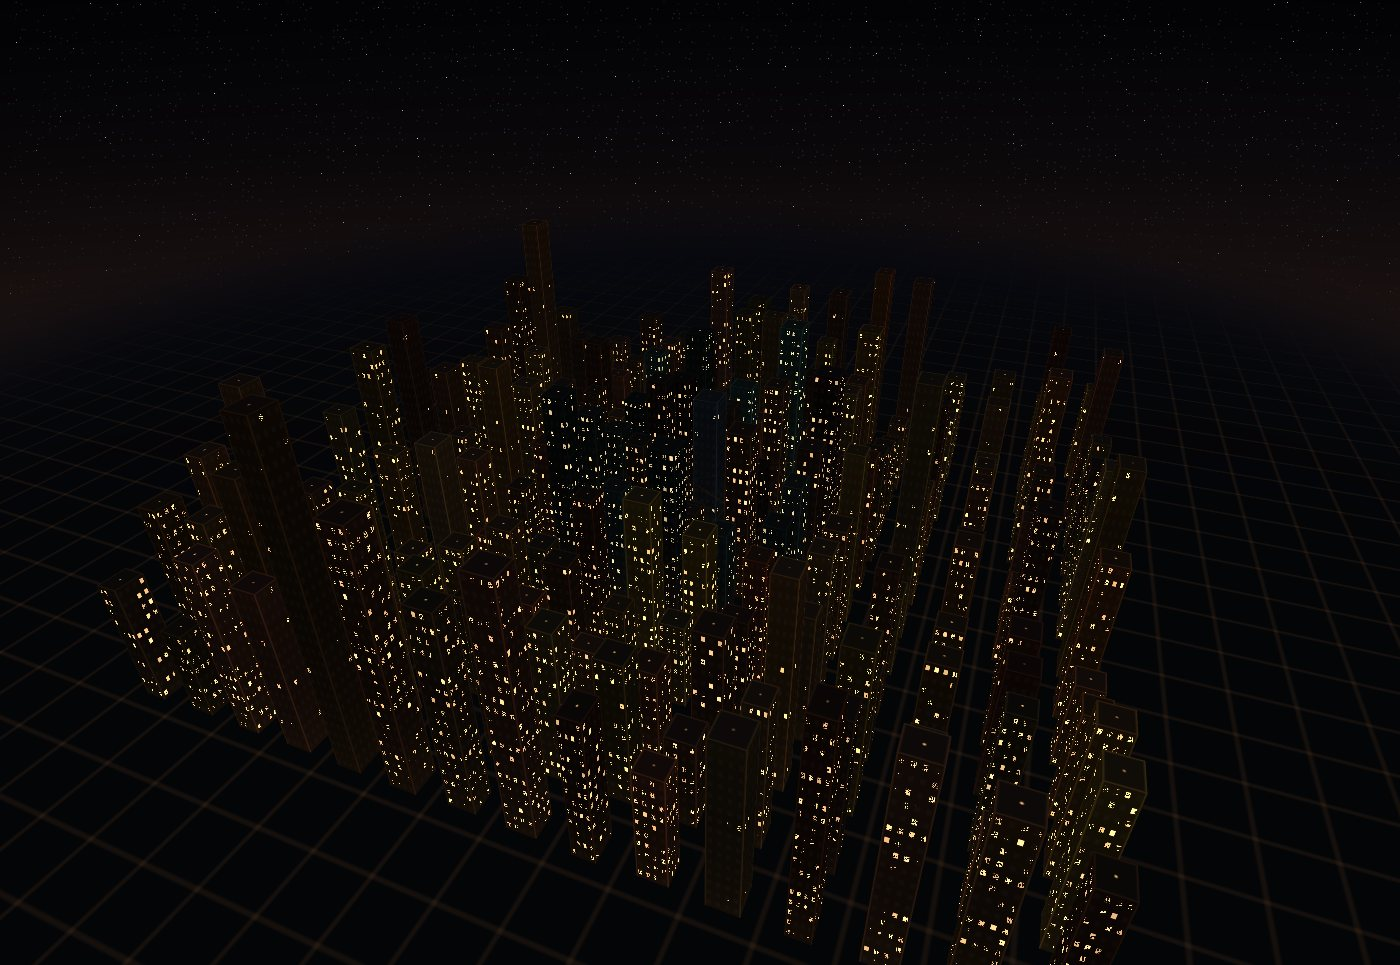
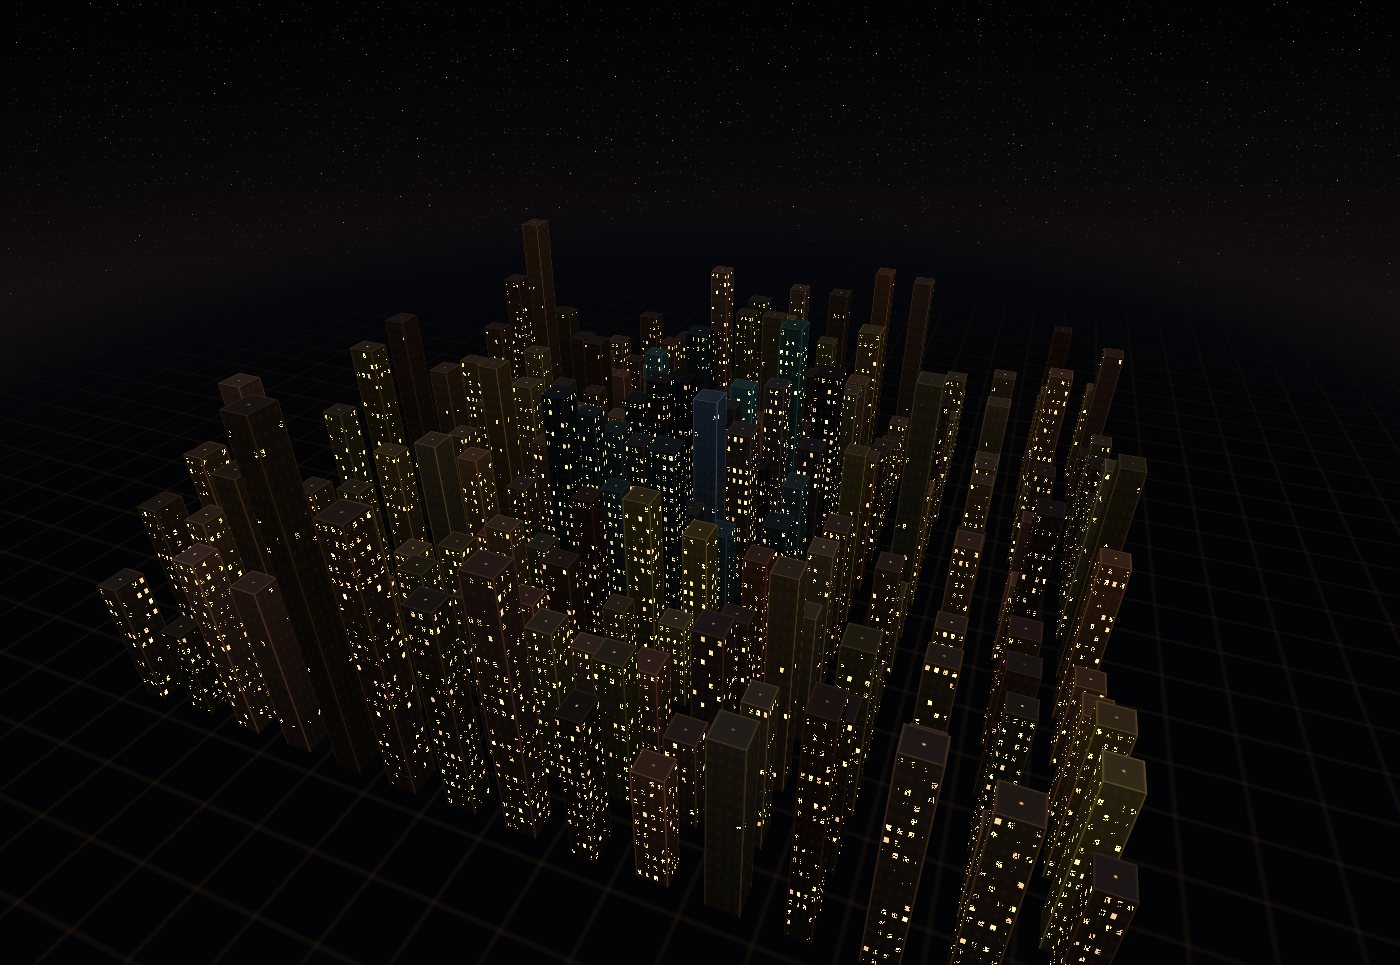
fix(viewer): separate the city skyline from its streets (#13)
Qoder colour audit: the towers, roofs and asphalt were all written in a
0.02-0.07 luminance band with the same blue-grey hue, and the palette
collapsed to one colour because a single cluster held 88% of the nodes.

- facade gain 0.20 -> 0.40 with a stronger vertical gradient and a
  moonlight tint; corner columns 0.24 -> 0.45
- roofs 0.085 -> 0.30 over a cool lift, parapet 0.26 -> 0.40, so every
  tower gets a readable cap instead of melting into its own wall
- side walls 0.012 -> 0.075: the skyline now has an edge against the sky
- asphalt 0.017 -> 0.010 with dimmer sodium lanes and a dithered haze
  ramp, so the street grid reads without competing with the buildings
- palette desaturated and re-ordered; a per-node tone keeps two towers
  of the same district apart
- window lamp cooled slightly; gain 1.45 so glass still outranks walls

Measured on the 200-node replay, same camera: ground 0.026 -> 0.016,
towers 0.074 -> 0.096, wall p10-p90 spread 0.023-0.071 -> 0.025-0.102.
Both shader twins carry the same literals; launch art recaptured.

diff --git a/site_kg/viewer/render.js b/site_kg/viewer/render.js
@@ -53,7 +53,7 @@
     "  p = fract(p*vec2(127.31, 311.7));",
     "  p += dot(p, p + 34.23);",
     "  return fract(p.x*p.y); }",
-    "vec3 hazeCol(){ return vec3(0.030, 0.034, 0.056); }",
+    "vec3 hazeCol(){ return vec3(0.024, 0.028, 0.048); }",
     "void main(){",
     "  vec3 col;",
     "  float alpha = 1.0;",
@@ -69,21 +69,25 @@
       + " + (1.0 - smoothstep(0.03, 0.18, dz));",
     /* Wet asphalt under sodium lamps: the street is the only thing that
        explains where the towers stand, so it has to be legible, not loud. */
-    "    col = vec3(0.017, 0.020, 0.029);",
-    "    col += vec3(0.30, 0.19, 0.086) * lane * 0.22;",
+    "    col = vec3(0.010, 0.012, 0.018);",
+    "    col += vec3(0.30, 0.19, 0.086) * lane * 0.14;",
     "    float r = length(g) / max(u_cityR, 1.0);",
     "    col = mix(col, hazeCol(), smoothstep(0.85, 1.60, r));",
+    /* Dither the long, shallow ramp into the haze: at 8 bits the steps
+       between asphalt and haze would otherwise band across the plane. */
+    "    col += (h21(g * 37.0) - 0.5) * 0.003;",
     /* The plane has to dissolve before its own edge, or the city sits on a
        floating square of tarmac with a straight horizon. */
     "    alpha = 1.0 - smoothstep(1.15, 1.85, r);",
     "  } else if (vFace > 4.5) {",
-    "    col = vCol * 0.012;",
+    "    col = vCol * 0.075;",
     "  } else if (vFace > 3.5) {",
     /* Roof: gravel, a lit parapet, and a beacon whose brightness is the
        node's fan-out -- the same number the windows carry. */
     "    float e = max(abs(vLocal.x), abs(vLocal.y));",
-    "    col = vCol * 0.085 + vec3(0.012, 0.014, 0.020);",
-    "    col += vCol * 0.26 * smoothstep(0.84, 1.0, e);",
+    "    col = vCol * 0.30 + vec3(0.030, 0.036, 0.052);"
+      + "    col *= 0.82 + 0.30 * fract(vSpec.z * 5.7);",
+    "    col += vCol * 0.40 * smoothstep(0.84, 1.0, e);",
     "    float beacon = 1.0 - smoothstep(0.0, 0.13, length(vLocal.xy));",
     "    beacon *= 0.40 + 1.45 * vSpec.y;",
     "    beacon *= 0.70 + 0.30 * sin(u_time * 2.1 + vSpec.z * 31.0);",
@@ -94,14 +98,16 @@
        lit fraction the node's outgoing links bought it. */
     "    vec3 N = normalize(vNrm);",
     "    float facing = 0.55 + 0.45 * abs(dot(N, normalize(vec3(0.45, 0.72, 0.33))));",
-    "    col = vCol * (0.20 * facing) * (0.55 + 0.45 * vLocal.y);",
+    "    col = vCol * (0.40 * facing) * (0.34 + 0.66 * vLocal.y)"
+      + " * vec3(0.90, 0.97, 1.08)"
+      + " * (0.82 + 0.30 * fract(vSpec.z * 5.7));",
     /* The corner columns catch the sky: without them two neighbouring slabs
        of the same concrete read as one building. */
-    "    col += vCol * 0.24 * smoothstep(0.87, 1.0, abs(vLocal.x));",
+    "    col += vCol * 0.45 * smoothstep(0.87, 1.0, abs(vLocal.x));",
     /* Street light spills up the ground floor, which is what makes a tower
        meet the road instead of hovering over it. */
     "    float up = 1.0 - vLocal.y;",
-    "    col += vec3(0.26, 0.17, 0.085) * up * up * up * 0.18;",
+    "    col += vec3(0.26, 0.17, 0.085) * up * up * up * 0.05;",
     "    float floors = max(vSpec.x, 1.0);",
     "    float u = (vLocal.x * 0.5 + 0.5) * 4.0;",
     "    float v = vLocal.y * floors;",
@@ -121,7 +127,7 @@
     "    float band = smoothstep(ring - 0.24, ring, dist)",
     "               * (1.0 - smoothstep(ring, ring + 0.15, dist));",
     "    lit = max(lit, band * step(0.42, pick));",
-    "    vec3 lamp = mix(vec3(1.0, 0.82, 0.56), vCol, 0.30);",
+    "    vec3 lamp = mix(vec3(1.0, 0.84, 0.58), vCol, 0.22);",
     "    float flick = 0.86 + 0.14 * sin(u_time*1.6 + cell.x*2.7 + cell.y*1.9",
     "                                  + seed*9.0);",
     "    col += vec3(0.013, 0.016, 0.023) * win;",

diff --git a/site_kg/viewer/gpu.js b/site_kg/viewer/gpu.js
@@ -132,10 +132,10 @@ fn deepvoid(uv: vec2f, t: f32) -> vec3f {
 fn skyline(uv: vec2f, t: f32) -> vec3f {
   let h = uv.y;
   let zenith = vec3f(0.006, 0.008, 0.022);
-  let low = vec3f(0.044, 0.038, 0.068);
+  let low = vec3f(0.036, 0.032, 0.060);
   var col = mix(low, zenith, ss(-0.10, 0.52, h));
   let glow = exp(-pow(max(0.0, h + 0.04) * 3.4, 2.0));
-  col += vec3f(0.30, 0.17, 0.070) * glow * 0.50;
+  col += vec3f(0.30, 0.17, 0.070) * glow * 0.42;
   col += stars(uv + vec2f(t * 0.0022, 0.0), 170.0, 0.40, 0.042, 13.0, t * 0.55)
          * ss(0.04, 0.42, h);
   let band = sin(h * 9.0 + uv.x * 1.3 + t * 0.05) * 0.5 + 0.5;
@@ -622,7 +622,7 @@ fn h21(p0: vec2f) -> f32 {
   return fract(p.x * p.y);
 }
 
-fn hazeCol() -> vec3f { return vec3f(0.030, 0.034, 0.056); }
+fn hazeCol() -> vec3f { return vec3f(0.024, 0.028, 0.048); }
 
 @fragment fn fs_city(i: VOut) -> @location(0) vec4f {
   var col = vec3f(0.0);
@@ -633,17 +633,20 @@ fn hazeCol() -> vec3f { return vec3f(0.030, 0.034, 0.056); }
     let dx = abs(fract(g.x / P + 0.5) - 0.5) * P;
     let dz = abs(fract(g.y / P + 0.5) - 0.5) * P;
     let lane = (1.0 - ss(0.03, 0.18, dx)) + (1.0 - ss(0.03, 0.18, dz));
-    col = vec3f(0.017, 0.020, 0.029);
-    col = col + vec3f(0.30, 0.19, 0.086) * lane * 0.22;
+    col = vec3f(0.010, 0.012, 0.018);
+    col = col + vec3f(0.30, 0.19, 0.086) * lane * 0.14;
     let r = length(g) / max(u.a.w, 1.0);
     col = mix(col, hazeCol(), ss(0.85, 1.60, r));
+    /* Dither the ramp into the haze: 8-bit steps would band here. */
+    col = col + vec3f((h21(g * 37.0) - 0.5) * 0.003);
     alpha = 1.0 - ss(1.15, 1.85, r);
   } else if (i.face > 4.5) {
-    col = i.col * 0.012;
+    col = i.col * 0.075;
   } else if (i.face > 3.5) {
     let e = max(abs(i.local.x), abs(i.local.y));
-    col = i.col * 0.085 + vec3f(0.012, 0.014, 0.020);
-    col = col + i.col * 0.26 * ss(0.84, 1.0, e);
+    col = i.col * 0.30 + vec3f(0.030, 0.036, 0.052);
+    col = col * (0.82 + 0.30 * fract(i.spec.z * 5.7));
+    col = col + i.col * 0.40 * ss(0.84, 1.0, e);
     var beacon = 1.0 - ss(0.0, 0.13, length(i.local.xy));
     beacon = beacon * (0.40 + 1.45 * i.spec.y);
     beacon = beacon * (0.70 + 0.30 * sin(u.a.x * 2.1 + i.spec.z * 31.0));
@@ -651,10 +654,12 @@ fn hazeCol() -> vec3f { return vec3f(0.030, 0.034, 0.056); }
   } else {
     let N = normalize(i.nrm);
     let facing = 0.55 + 0.45 * abs(dot(N, normalize(vec3f(0.45, 0.72, 0.33))));
-    col = i.col * (0.20 * facing) * (0.55 + 0.45 * i.local.y);
-    col = col + i.col * 0.24 * ss(0.87, 1.0, abs(i.local.x));
+    col = i.col * (0.40 * facing) * (0.34 + 0.66 * i.local.y)
+        * vec3f(0.90, 0.97, 1.08);
+    col = col * (0.82 + 0.30 * fract(i.spec.z * 5.7));
+    col = col + i.col * 0.45 * ss(0.87, 1.0, abs(i.local.x));
     let up = 1.0 - i.local.y;
-    col = col + vec3f(0.26, 0.17, 0.085) * up * up * up * 0.18;
+    col = col + vec3f(0.26, 0.17, 0.085) * up * up * up * 0.05;
     let floors = max(i.spec.x, 1.0);
     let uu = (i.local.x * 0.5 + 0.5) * 4.0;
     let vv = i.local.y * floors;
@@ -671,7 +676,7 @@ fn hazeCol() -> vec3f { return vec3f(0.030, 0.034, 0.056); }
     let dist = length(q) / max(u.a.w, 1.0);
     let band = ss(ring - 0.24, ring, dist) * (1.0 - ss(ring, ring + 0.15, dist));
     lit = max(lit, band * step(0.42, pick));
-    let lamp = mix(vec3f(1.0, 0.82, 0.56), i.col, 0.30);
+    let lamp = mix(vec3f(1.0, 0.84, 0.58), i.col, 0.22);
     let flick = 0.86 + 0.14 * sin(u.a.x * 1.6 + cell.x * 2.7
                                 + cell.y * 1.9 + seed * 9.0);
     col = col + vec3f(0.013, 0.016, 0.023) * win;

diff --git a/site_kg/viewer/scenes/city.js b/site_kg/viewer/scenes/city.js
@@ -11,9 +11,11 @@
     /* Night facades: steel, brick, slate teal, sandstone, plum. The hues stay
        close to the grey so a district reads as a neighbourhood, and the
        windows supply the warmth: lit glass is the only saturated thing in the
-       frame. Slot 0 is the dominant cluster, so the steel blue sits there. */
-    palette: [0x6f7f96, 0x8a6a52, 0x5f7d7a, 0xb08a58, 0x7a6a86, 0x9a8f7a,
-              0x6a7f8f, 0x8f7a68, 0x5e6b82, 0x7d8a6f, 0x96775f, 0x6b6f7d],
+       frame. Slot 0 is the dominant cluster, so the steel blue sits there.
+       Luma zigzags 0.35-0.62: at the facade gain below, that is the only
+       thing that keeps two neighbouring towers from melting together. */
+    palette: [0x8496b0, 0x6f6257, 0x5c7a76, 0x9d8058, 0x565e78, 0x9a9388,
+              0x49606e, 0x8a7c6a, 0x6f7f96, 0x7d7464, 0x5f7d7a, 0x7f7876],
     starfield: true,
     sky: "skyline",
     lightDir: [0.42, 0.78, 0.34],
